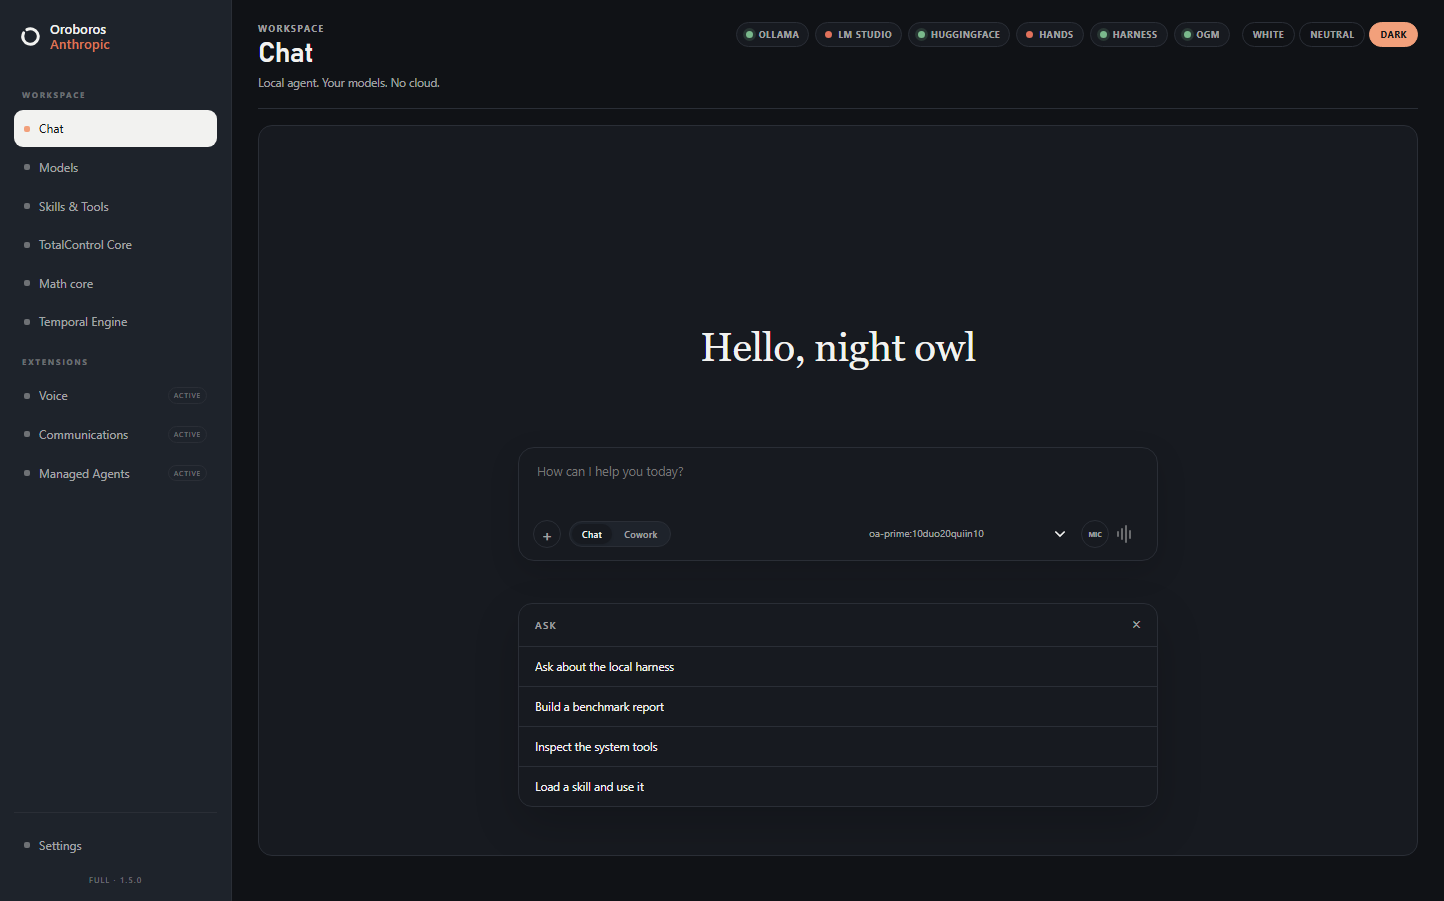
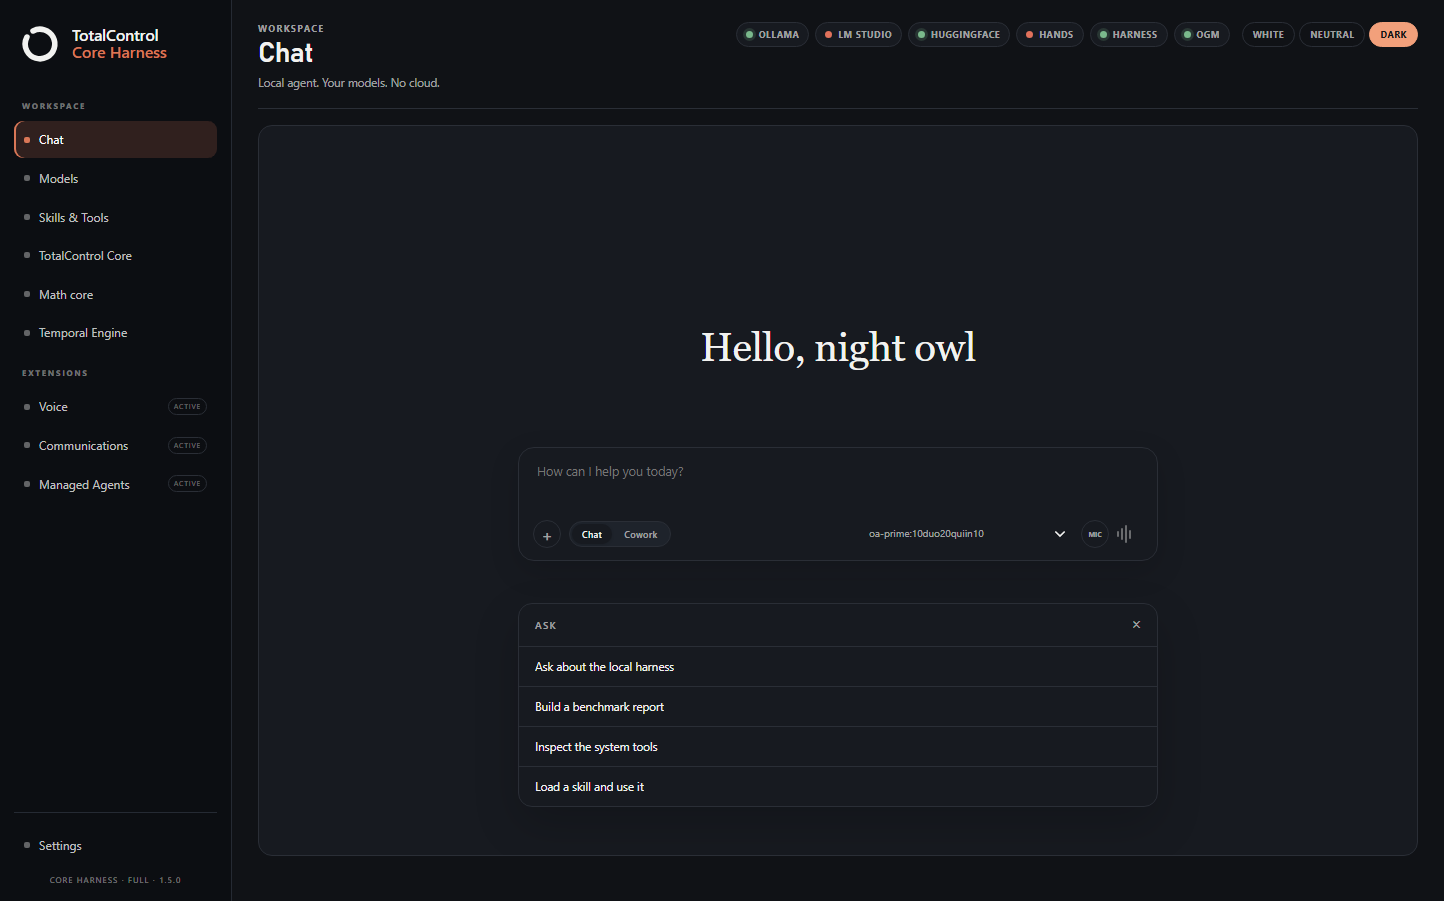
TotalControl Core Harness 1.5.0: free client, renamed clients, refreshed images

Changed region(s): [[0.0, 0.0, 0.187, 1.0]]

diff --git a/shop.html b/shop.html
@@ -182,7 +182,7 @@
 <a href="index.html" data-k="harness">HARNESS</a>
 <a href="glasswing.html" data-k="glasswing">GLASSWING</a>
 <a href="set/index.html" data-k="pro">PRO</a>
-<a href="shop.html#desktop" data-k="desktop" style="border:1px solid currentColor;padding:5px 10px;border-radius:7px;text-decoration:none">DESKTOP 1.5.0</a>
+<a href="shop.html#desktop" data-k="desktop" style="border:1px solid currentColor;padding:5px 10px;border-radius:7px;text-decoration:none">CORE HARNESS 1.5.0</a>
 <a href="huggingface.html" data-k="huggingface">HUGGINGFACE</a>
 <a href="index.html#memory" data-k="memory">MEMORY</a>
 <a href="all-services.html" data-k="services">SERVICES</a>
@@ -203,39 +203,57 @@
 
     <section class="block" id="desktop" style="margin:38px 0 10px">
         <div style="text-align:center">
-            <span class="eyebrow2">DESKTOP UPGRADES · 1.5.0</span>
-            <h2 class="harness-heading">The full harness, <span class="hl">now a desktop.</span></h2>
-            <p class="sub">The same Claude AI desktop interface. Two TotalControl bodies: the black full build and the neutral paid build. Version 1.5.0 — two levels above the last desktop release.</p>
+            <span class="eyebrow2">TOTALCONTROL CORE HARNESS · 1.5.0</span>
+            <h2 class="harness-heading">The full harness. <span class="hl">Now a Core Harness client.</span></h2>
+            <p class="sub">Three TotalControl Core Harness clients: Free, Full, and Paid. Version 1.5.0 — two levels above the last release. Windows installers and Linux portable builds.</p>
         </div>
         <div class="cards">
             <div class="prod">
-                <div class="tag2">Desktop · Full</div>
-                <h2>Full — 1.5.0</h2>
-                <p>The full TotalControl harness in the Claude AI desktop. Black on first run, fully unlocked, voice and communications on.</p>
-                <img src="desktop-full.png" alt="OA Claude Desktop Full 1.5.0 — black interface" style="width:100%;border-radius:12px;border:1px solid rgba(255,255,255,.14);margin:12px 0">
+                <div class="tag2">Core Harness · Free</div>
+                <h2>Free — 1.5.0</h2>
+                <p>The free Core Harness client. Harness, core and all harness tools, with microphone input only. No browser hands, no voice output, no paid features.</p>
+                <img src="desktop-free.png" alt="TotalControl Core Harness Free 1.5.0 — neutral interface" style="width:100%;border-radius:12px;border:1px solid rgba(255,255,255,.14);margin:12px 0">
                 <ul class="incl">
-                    <li>label: FULL · 1.5.0</li>
-                    <li>black theme · fully unlocked</li>
-                    <li>80 harness tools · hands · voice · comms</li>
-                    <li>separate app id — installs beside Paid</li>
+                    <li>label: CORE HARNESS · FREE · 1.5.0</li>
+                    <li>neutral theme · all harness tools</li>
+                    <li>microphone input only · no voice output</li>
+                    <li>no hands · no comms · no managed agents</li>
+                    <li>Windows installer + Linux portable</li>
                 </ul>
-                <div class="price">Full<small>unlocked build</small></div>
-                <a class="btn primary" href="https://github.com/oroboroslabs-ai/anthropic/releases/download/desktop-v1.5.0/OA-Claude-Desktop-Full-1.5.0.exe">↓ Download Full 1.5.0</a>
+                <div class="price">$0<small>download only</small></div>
+                <a class="btn primary" href="https://github.com/oroboroslabs-ai/anthropic/releases/download/totalcontrol-core-harness-v1.5.0/TotalControl-Core-Harness-Free-1.5.0.exe">↓ Download Free 1.5.0 · Windows</a>
+                <a class="btn" href="https://github.com/oroboroslabs-ai/anthropic/releases/download/totalcontrol-core-harness-v1.5.0/TotalControl-Core-Harness-Free-1.5.0-linux-x64.tar.gz">↓ Free 1.5.0 · Linux x64</a>
             </div>
             <div class="prod">
-                <div class="tag2">Desktop · Paid</div>
-                <h2>Paid — 1.5.0</h2>
-                <p>The customer build. Neutral on first run — the unpaid state — and the signed licence turns it to FULL · PAID.</p>
-                <img src="desktop-paid.png" alt="OA Claude Desktop Paid 1.5.0 — neutral interface" style="width:100%;border-radius:12px;border:1px solid rgba(255,255,255,.14);margin:12px 0">
+                <div class="tag2">Core Harness · Full</div>
+                <h2>Full — 1.5.0</h2>
+                <p>The full Core Harness client. Black on first run, fully unlocked, hands, voice and communications on.</p>
+                <img src="desktop-full.png" alt="TotalControl Core Harness Full 1.5.0 — black interface" style="width:100%;border-radius:12px;border:1px solid rgba(255,255,255,.14);margin:12px 0">
                 <ul class="incl">
-                    <li>label: FULL · UNPAID · 1.5.0</li>
+                    <li>label: CORE HARNESS · FULL · 1.5.0</li>
+                    <li>black theme · fully unlocked</li>
+                    <li>80 harness tools · hands · voice · comms</li>
+                    <li>Windows installer + Linux portable</li>
+                </ul>
+                <div class="price">Full<small>unlocked build</small></div>
+                <a class="btn primary" href="https://github.com/oroboroslabs-ai/anthropic/releases/download/totalcontrol-core-harness-v1.5.0/TotalControl-Core-Harness-Full-1.5.0.exe">↓ Download Full 1.5.0 · Windows</a>
+                <a class="btn" href="https://github.com/oroboroslabs-ai/anthropic/releases/download/totalcontrol-core-harness-v1.5.0/TotalControl-Core-Harness-Full-1.5.0-linux-x64.tar.gz">↓ Full 1.5.0 · Linux x64</a>
+            </div>
+            <div class="prod">
+                <div class="tag2">Core Harness · Paid</div>
+                <h2>Paid — 1.5.0</h2>
+                <p>The customer Core Harness client. Neutral on first run — the unpaid state — and the signed licence turns it to CORE HARNESS · PAID.</p>
+                <img src="desktop-paid.png" alt="TotalControl Core Harness Paid 1.5.0 — neutral interface" style="width:100%;border-radius:12px;border:1px solid rgba(255,255,255,.14);margin:12px 0">
+                <ul class="incl">
+                    <li>label: CORE HARNESS · UNPAID · 1.5.0</li>
                     <li>neutral theme · Pro unlocks by licence</li>
                     <li>80 harness tools · hands · voice · comms</li>
-                    <li>separate app id — installs beside Full</li>
+                    <li>Windows installer + Linux portable</li>
                 </ul>
                 <div class="price">$97<small>one-time upgrade · USD</small></div>
                 <a class="btn primary" href="checkout.html?item=hands">Buy — Paid 1.5.0 · checkout</a>
-                <a class="btn" href="https://github.com/oroboroslabs-ai/anthropic/releases/download/desktop-v1.5.0/OA-Claude-Desktop-Paid-1.5.0.exe">↓ Download installer</a>
+                <a class="btn" href="https://github.com/oroboroslabs-ai/anthropic/releases/download/totalcontrol-core-harness-v1.5.0/TotalControl-Core-Harness-Paid-1.5.0.exe">↓ Download installer · Windows</a>
+                <a class="btn" href="https://github.com/oroboroslabs-ai/anthropic/releases/download/totalcontrol-core-harness-v1.5.0/TotalControl-Core-Harness-Paid-1.5.0-linux-x64.tar.gz">↓ Paid 1.5.0 · Linux x64</a>
             </div>
         </div>
     </section>

diff --git a/harness.html b/harness.html
@@ -4,7 +4,7 @@
 <meta charset="UTF-8">
 <meta name="viewport" content="width=device-width, initial-scale=1.0">
 <title>TotalControl Harness | Free download — /A OROBOROS / ANTHROPIC</title>
-<meta name="description" content="TotalControl Core Harness — load the static weight core, run the loop, own your machine. Download the free release v1.0.0-free.">
+<meta name="description" content="TotalControl Core Harness — load the static weight core, run the loop, own your machine. Download the free release v1.5.0-free.">
 <link href="https://fonts.googleapis.com/css2?family=Inter:wght@300;400;500;600;700&family=Source+Code+Pro:wght@400;500&display=swap" rel="stylesheet">
 <link rel="icon" type="image/png" href="favicon.png">
 <script>try{var v=null;try{v=localStorage.getItem("tc-lite")}catch(e){}if(v===null){try{v=sessionStorage.getItem("tc-lite")}catch(e){}}if(v===null){var m=document.cookie.match(/(?:^|;\s*)tc-lite=([^;]*)/);if(m)v=m[1]}if(v==="1")document.documentElement.classList.add("light")}catch(e){if(document.cookie.indexOf("tc-lite=1")>=0)document.documentElement.classList.add("light")}</script>
@@ -352,7 +352,7 @@
 <a href="index.html" class="here" data-k="harness">HARNESS</a>
 <a href="glasswing.html" data-k="glasswing">GLASSWING</a>
 <a href="set/index.html" data-k="pro">PRO</a>
-<a href="shop.html#desktop" data-k="desktop" style="border:1px solid currentColor;padding:5px 10px;border-radius:7px;text-decoration:none">DESKTOP 1.5.0</a>
+<a href="shop.html#desktop" data-k="desktop" style="border:1px solid currentColor;padding:5px 10px;border-radius:7px;text-decoration:none">CORE HARNESS 1.5.0</a>
 <a href="huggingface.html" data-k="huggingface">HUGGINGFACE</a>
 <a href="index.html#memory" data-k="memory">MEMORY</a>
 <a href="all-services.html" data-k="services">SERVICES</a>
@@ -366,14 +366,16 @@
 <main>
     <div class="container">
         <div class="hero center">
-            <span class="eyebrow">✦ RELEASE 1.0.0-FREE · RUNS ON YOUR MACHINE</span>
+            <span class="eyebrow">✦ RELEASE 1.5.0-FREE · WINDOWS + LINUX · RUNS ON YOUR MACHINE</span>
             <h1 class="harness-heading">TotalControl Harness.<br>Ready to use. <span class="here-word">Right now.</span></h1>
             <div class="intro">
                 <p class="ds-text-body">Load the static weight core — shard blobs of any size — and the loop hands
                    your installed models their engine.</p>
             </div>
             <div class="hero-cta">
-                <a class="btn primary" href="https://github.com/oroboroslabs-ai/totalcontrol-core-harness/releases/latest/download/TotalControl-Free-Core.zip">↓&nbsp; Download TotalControl-Free-Core.zip</a>
+                <a class="btn primary" href="https://github.com/oroboroslabs-ai/anthropic/releases/download/totalcontrol-core-harness-v1.5.0/TotalControl-Core-Harness-Free-1.5.0.exe">↓&nbsp; Download Core Harness Free 1.5.0 · Windows</a>
+                <a class="btn" href="https://github.com/oroboroslabs-ai/anthropic/releases/download/totalcontrol-core-harness-v1.5.0/TotalControl-Core-Harness-Free-1.5.0-linux-x64.tar.gz">Linux x64</a>
+                <a class="btn" href="https://github.com/oroboroslabs-ai/totalcontrol-core-harness/releases/latest/download/TotalControl-Free-Core.zip">TotalControl-Free-Core.zip</a>
                 <a class="btn" href="https://github.com/oroboroslabs-ai/totalcontrol-core-harness/blob/main/docs/AI-INSTALL.md">AI-INSTALL.md runbook</a>
                 <a class="btn" href="https://github.com/oroboroslabs-ai/totalcontrol-core-harness">View on GitHub</a>
                 <span class="dlmetric" data-dl></span>
@@ -596,7 +598,7 @@
                        compiled — <code class="inline">engine.py</code> source never ships) ·
                        <code class="inline">gui-core</code> panel · <code class="inline">AI-INSTALL.md</code> — the runbook
                        written for the AI that installs · <code class="inline">tests/probe_free.py</code>.</p>
-                    <div class="cmdrow"><span class="ps">$</span><code>TotalControl-Free-Core.zip · release 1.0.0-free</code></div>
+                    <div class="cmdrow"><span class="ps">$</span><code>TotalControl-Free-Core.zip · release 1.5.0-free</code></div>
                     <a class="dl" href="https://github.com/oroboroslabs-ai/totalcontrol-core-harness/releases/latest/download/TotalControl-Free-Core.zip">Download TotalControl-Free-Core.zip →</a>
                     <span class="dlmetric" data-dl></span>
                 </div>
@@ -648,7 +650,7 @@
 
 <footer class="site">
     <div class="container frow">
-        <p>TotalControl · /A Oroboros <span class="foth">/ Anthropic</span> · Release 1.0.0-free</p>
+        <p>TotalControl · /A Oroboros <span class="foth">/ Anthropic</span> · Release 1.5.0-free</p>
         <div class="flinks">
             <a href="index.html">Harness</a>
             <a href="harness.html">Download</a> <a href="shop.html">SHOP</a>
